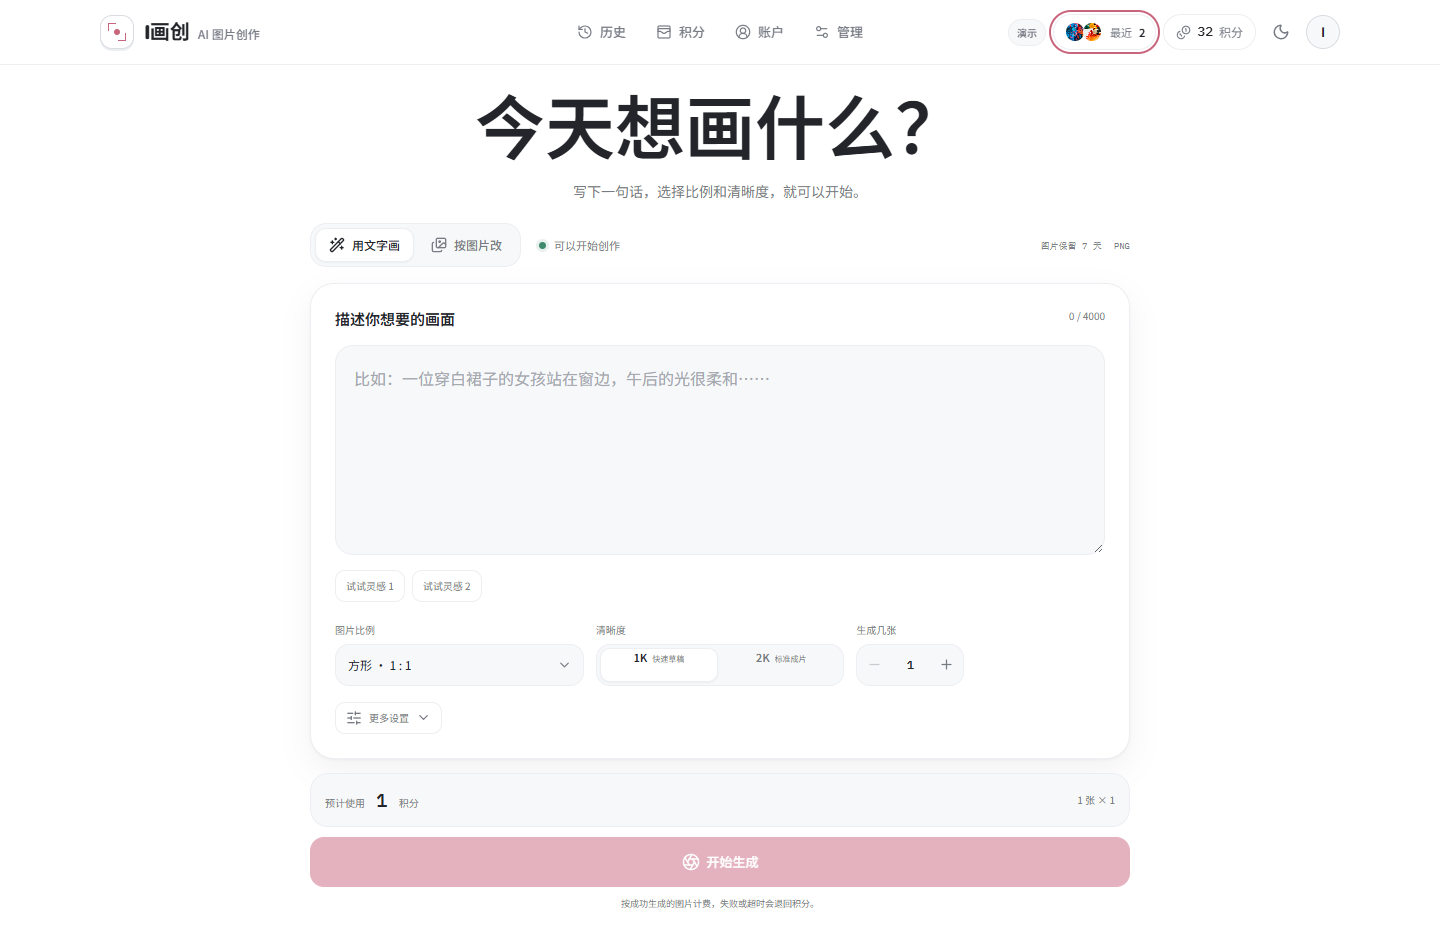
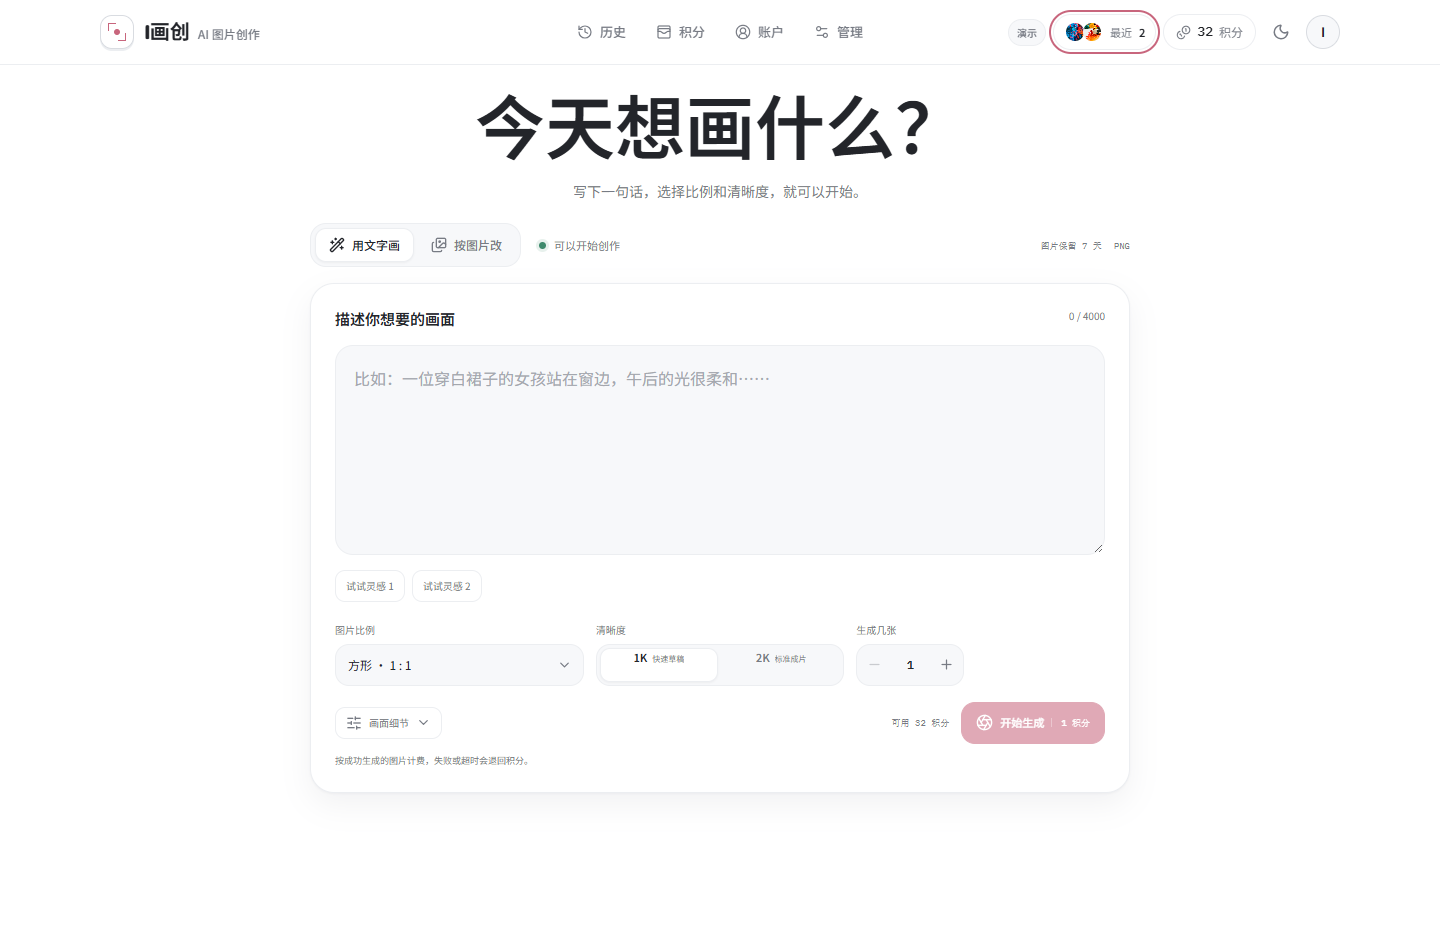
feat: show generation cost and available credits

Changed region(s): [[0.1875, 0.8125, 0.8125, 1.0], [0.625, 0.75, 0.7812, 0.8125], [0.25, 0.75, 0.2812, 0.7812]]

diff --git a/src/views/StudioView.vue b/src/views/StudioView.vue
@@ -223,6 +223,9 @@ const samplePrompts = [
 
 const unitCost = computed(() => publicSettings.value?.pricing[selectedResolution.value] ?? 0)
 const totalCost = computed(() => unitCost.value * count.value)
+const availableCredits = computed(
+  () => auth.user?.availableCredits ?? auth.user?.creditBalance ?? 0,
+)
 const originalReference = computed(() =>
   references.value.find((reference) => reference.width > 0 && reference.height > 0),
 )
@@ -1118,16 +1121,45 @@ onBeforeUnmount(() => {
             </div>
           </div>
 
-          <button
-            type="button"
-            class="advanced-toggle"
-            :aria-expanded="advancedOpen"
-            @click="advancedOpen = !advancedOpen"
-          >
-            <SlidersHorizontal :size="16" aria-hidden="true" />
-            {{ advancedOpen ? '收起画面细节' : '画面细节' }}
-            <ChevronDown :size="15" :class="{ 'is-open': advancedOpen }" aria-hidden="true" />
-          </button>
+          <div class="prompt-action-row">
+            <button
+              type="button"
+              class="advanced-toggle"
+              :aria-expanded="advancedOpen"
+              @click="advancedOpen = !advancedOpen"
+            >
+              <SlidersHorizontal :size="16" aria-hidden="true" />
+              {{ advancedOpen ? '收起画面细节' : '画面细节' }}
+              <ChevronDown :size="15" :class="{ 'is-open': advancedOpen }" aria-hidden="true" />
+            </button>
+
+            <div class="prompt-action-right">
+              <span class="available-credit">可用 {{ availableCredits }} 积分</span>
+              <button
+                class="button button--primary prompt-generate"
+                type="button"
+                :disabled="!canSubmit"
+                @click="submitGeneration"
+              >
+                <LoaderCircle
+                  v-if="submitting || taskIsActive"
+                  class="spin"
+                  :size="17"
+                  aria-hidden="true"
+                />
+                <Aperture v-else :size="17" aria-hidden="true" />
+                <span v-if="submitting">正在准备</span>
+                <span v-else-if="taskIsActive">正在绘制</span>
+                <span v-else-if="publicSettings?.generationReady">开始生成</span>
+                <span v-else>服务未连接</span>
+                <strong>{{ totalCost }} 积分</strong>
+              </button>
+            </div>
+          </div>
+          <p v-if="submitError" class="inline-alert inline-alert--error prompt-error" role="alert">
+            {{ submitError }}
+          </p>
+          <p class="prompt-footnote">按成功生成的图片计费，失败或超时会退回积分。</p>
         </section>
 
         <section v-if="mode === 'edit'" class="tool-card reference-card">
@@ -1215,38 +1247,6 @@ onBeforeUnmount(() => {
           </section>
         </Transition>
 
-        <div class="action-dock">
-          <div class="estimate-row">
-            <div>
-              <span>预计使用</span>
-              <strong>{{ totalCost }} <small>积分</small></strong>
-            </div>
-            <span>{{ count }} 张 × {{ unitCost }}</span>
-          </div>
-
-          <div v-if="submitError" class="inline-alert inline-alert--error" role="alert">
-            {{ submitError }}
-          </div>
-          <button
-            class="button button--primary button--wide generate-button"
-            type="button"
-            :disabled="!canSubmit"
-            @click="submitGeneration"
-          >
-            <LoaderCircle
-              v-if="submitting || taskIsActive"
-              class="spin"
-              :size="18"
-              aria-hidden="true"
-            />
-            <Aperture v-else :size="18" aria-hidden="true" />
-            <span v-if="submitting">正在准备…</span>
-            <span v-else-if="taskIsActive">正在绘制…</span>
-            <span v-else-if="publicSettings?.generationReady">开始生成</span>
-            <span v-else>生成服务未连接</span>
-          </button>
-          <p class="rail-footnote">按成功生成的图片计费，失败或超时会退回积分。</p>
-        </div>
       </aside>
 
       <section v-else class="compact-editor" aria-label="继续编辑">
@@ -1316,7 +1316,7 @@ onBeforeUnmount(() => {
             </button>
           </div>
 
-          <span class="compact-cost">{{ totalCost }} 积分</span>
+          <span class="compact-cost">可用 {{ availableCredits }} 积分</span>
         </div>
 
         <div class="compact-actions">
@@ -1336,6 +1336,7 @@ onBeforeUnmount(() => {
             <span v-if="submitting">准备中</span>
             <span v-else-if="taskIsActive">绘制中</span>
             <span v-else>再画一张</span>
+            <strong>{{ totalCost }} 积分</strong>
           </button>
           <button
             type="button"
@@ -4425,6 +4426,65 @@ onBeforeUnmount(() => {
   gap: 12px;
 }
 
+.prompt-action-row {
+  display: flex;
+  align-items: center;
+  justify-content: space-between;
+  gap: 16px;
+  margin-top: 16px;
+}
+
+.prompt-action-row .advanced-toggle {
+  margin-top: 0;
+}
+
+.prompt-action-right {
+  display: flex;
+  min-width: 0;
+  align-items: center;
+  justify-content: flex-end;
+  gap: 12px;
+}
+
+.available-credit {
+  color: var(--muted);
+  font-family: 'IBM Plex Mono', monospace;
+  font-size: 9px;
+  white-space: nowrap;
+}
+
+.prompt-generate {
+  min-height: 42px;
+  padding: 0 14px;
+  font-size: 11px;
+  box-shadow: 0 6px 16px rgb(200 102 125 / 16%);
+}
+
+.prompt-generate strong {
+  padding-left: 9px;
+  border-left: 1px solid rgb(255 255 255 / 34%);
+  font-family: 'IBM Plex Mono', monospace;
+  font-size: 9px;
+  font-weight: 500;
+  white-space: nowrap;
+}
+
+.prompt-generate:disabled {
+  cursor: not-allowed;
+  box-shadow: none;
+}
+
+.prompt-error {
+  margin-top: 12px;
+}
+
+.prompt-footnote {
+  margin: 10px 0 0;
+  color: var(--muted);
+  font-size: 9px;
+  line-height: 1.6;
+}
+
 .compact-editor {
   display: grid;
   min-width: 0;
@@ -4614,6 +4674,15 @@ onBeforeUnmount(() => {
   font-size: 11px;
 }
 
+.compact-generate strong {
+  padding-left: 7px;
+  border-left: 1px solid rgb(255 255 255 / 34%);
+  font-family: 'IBM Plex Mono', monospace;
+  font-size: 8px;
+  font-weight: 500;
+  white-space: nowrap;
+}
+
 .compact-reset {
   display: inline-flex;
   min-height: 42px;
@@ -4714,6 +4783,21 @@ onBeforeUnmount(() => {
 }
 
 @media (max-width: 620px) {
+  .prompt-action-row {
+    align-items: stretch;
+    flex-direction: column;
+    gap: 10px;
+  }
+
+  .prompt-action-right {
+    justify-content: space-between;
+  }
+
+  .prompt-generate {
+    flex: 1;
+    justify-content: center;
+  }
+
   .studio-page--creating .studio-hero {
     align-items: start;
     grid-template-columns: 1fr;
